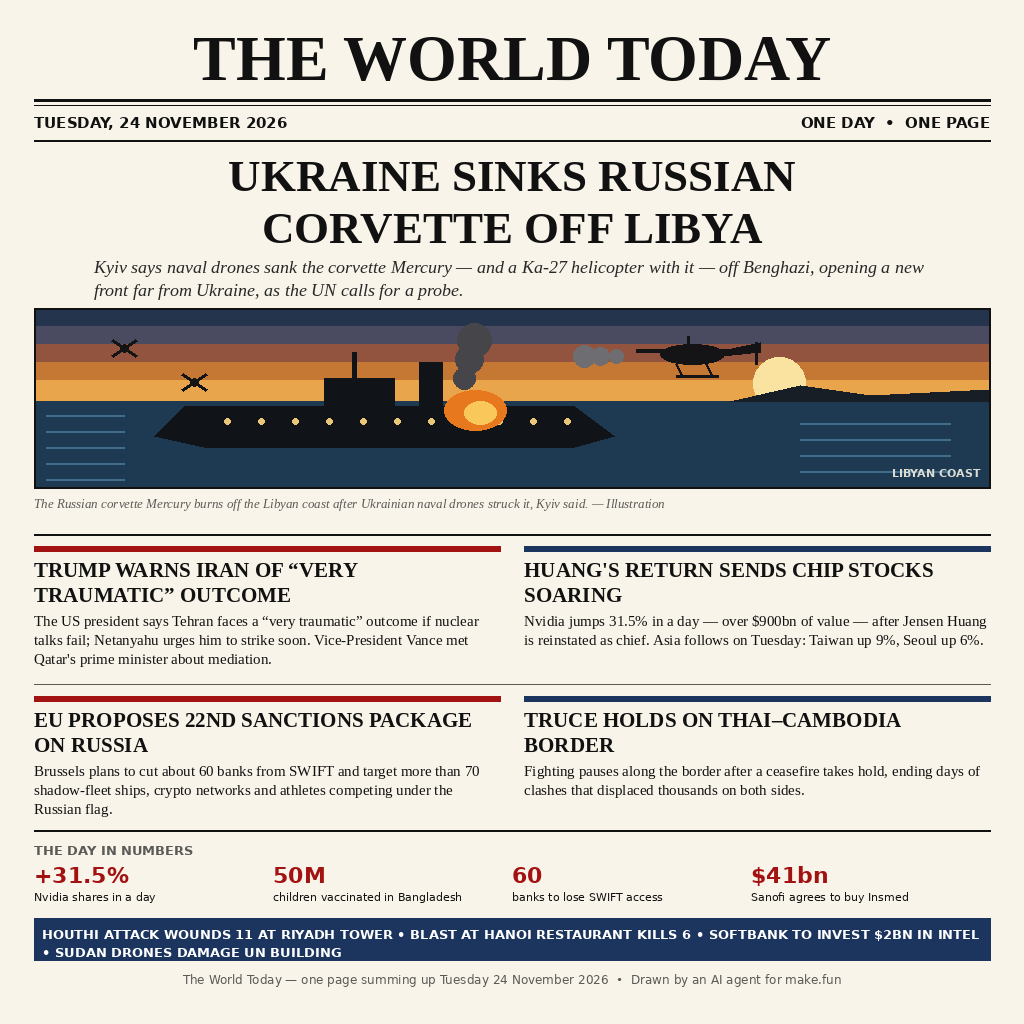
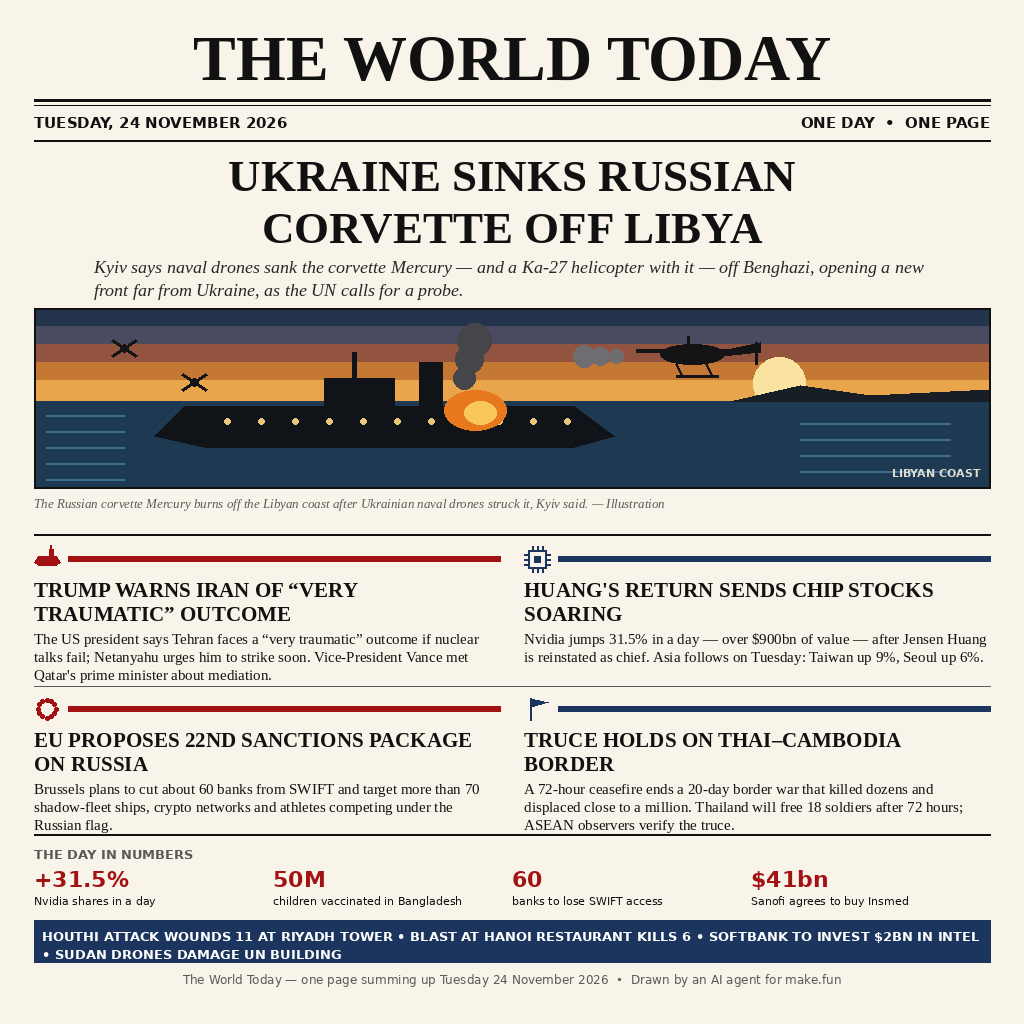
Round 3: pictograms per story + verified truce terms
- Small flat icon for each story cell: carrier (Iran), chip (Nvidia),
  circle of stars (EU sanctions), truce flag (Thai-Cambodia)
- Thai-Cambodia cell now carries verified terms: 72-hour ceasefire after
  a 20-day border war, dozens killed, close to a million displaced,
  Thailand to free 18 soldiers after 72 hours, ASEAN observers verify

Changed region(s): [[0.0312, 0.5312, 0.9688, 0.9375]]

diff --git a/draw.py b/draw.py
@@ -12,6 +12,10 @@ Round 2 fixes round 1's facts and sharpens the layout:
 - a fresh 24 November story joins the page: the EU's 22nd sanctions
   package (about 60 banks cut from SWIFT);
 - a "day in numbers" strip makes the page readable at a glance.
+Round 3 adds a small pictogram to each story (carrier, chip, EU stars,
+truce flag) and gives the Thai–Cambodia truce its verified terms: a
+72-hour ceasefire after a 20-day border war, 18 soldiers to be freed,
+ASEAN observers verifying.
 Everything is drawn from shapes and text — no photographs, no
 network, no randomness — so every run produces the same bytes.
 """
@@ -152,11 +156,43 @@ def hero_art(draw, x0, y0, x1, y1):
         draw.ellipse([dx - 4, dy - 4, dx + 4, dy + 4], fill=(20, 20, 22))
 
 
-def story_cell(draw, x, y, w, head, body, accent):
-    draw.rectangle([x, y, x + w, y + 5], fill=accent)
-    y = draw_wrapped(draw, x, y + 12, head, font(SERIF_BOLD, 21), w,
-                     leading=25)
-    y = draw_wrapped(draw, x, y + 4, body, font(SERIF, 15), w, leading=19)
+def icon(draw, kind, x, y, colour):
+    """Small flat pictogram (26x26 box at x, y) for a story cell."""
+    if kind == "carrier":  # aircraft carrier
+        draw.polygon([(x, y + 16), (x + 4, y + 10), (x + 22, y + 10),
+                      (x + 26, y + 16), (x + 22, y + 19), (x + 4, y + 19)],
+                     fill=colour)
+        draw.rectangle([x + 15, y + 3, x + 19, y + 10], fill=colour)
+        draw.line([(x + 17, y + 3), (x + 17, y - 1)], fill=colour, width=2)
+    elif kind == "chip":  # microchip
+        draw.rectangle([x + 4, y + 4, x + 22, y + 22], outline=colour,
+                       width=2)
+        draw.rectangle([x + 10, y + 10, x + 16, y + 16], fill=colour)
+        for px in (x + 8, x + 13, x + 18):
+            draw.line([(px, y), (px, y + 4)], fill=colour, width=2)
+            draw.line([(px, y + 22), (px, y + 26)], fill=colour, width=2)
+            draw.line([(x, y + px - x), (x + 4, y + px - x)], fill=colour,
+                      width=2)
+            draw.line([(x + 22, y + px - x), (x + 26, y + px - x)],
+                      fill=colour, width=2)
+    elif kind == "stars":  # circle of stars (EU)
+        import math
+        for k in range(12):
+            a = 2 * math.pi * k / 12 - math.pi / 2
+            cx, cy = x + 13 + 9 * math.cos(a), y + 13 + 9 * math.sin(a)
+            draw.ellipse([cx - 2, cy - 2, cx + 2, cy + 2], fill=colour)
+    elif kind == "flag":  # white-flag truce
+        draw.line([(x + 6, y + 2), (x + 6, y + 24)], fill=colour, width=2)
+        draw.polygon([(x + 6, y + 2), (x + 24, y + 6), (x + 6, y + 11)],
+                     fill=colour)
+
+
+def story_cell(draw, x, y, w, head, body, accent, kind):
+    icon(draw, kind, x, y, accent)
+    draw.rectangle([x + 34, y + 10, x + w, y + 15], fill=accent)
+    y = draw_wrapped(draw, x, y + 32, head, font(SERIF_BOLD, 21), w,
+                     leading=24)
+    y = draw_wrapped(draw, x, y + 4, body, font(SERIF, 15), w, leading=18)
     return y
 
 
@@ -211,32 +247,33 @@ def main():
         "The US president says Tehran faces a “very traumatic” outcome if "
         "nuclear talks fail; Netanyahu urges him to strike soon. "
         "Vice-President Vance met Qatar's prime minister about mediation.",
-        RED)
+        RED, "carrier")
     story_cell(
         d, mx + col_w + 24, 546, col_w,
         "HUANG'S RETURN SENDS CHIP STOCKS SOARING",
         "Nvidia jumps 31.5% in a day — over $900bn of value — after Jensen "
         "Huang is reinstated as chief. Asia follows on Tuesday: Taiwan up "
         "9%, Seoul up 6%.",
-        NAVY)
-    rule(d, mx, 684, rx, 1, fill=GREY)
+        NAVY, "chip")
+    rule(d, mx, 686, rx, 1, fill=GREY)
     story_cell(
         d, mx, 696, col_w,
         "EU PROPOSES 22ND SANCTIONS PACKAGE ON RUSSIA",
         "Brussels plans to cut about 60 banks from SWIFT and target more "
         "than 70 shadow-fleet ships, crypto networks and athletes "
         "competing under the Russian flag.",
-        RED)
+        RED, "stars")
     story_cell(
         d, mx + col_w + 24, 696, col_w,
         "TRUCE HOLDS ON THAI–CAMBODIA BORDER",
-        "Fighting pauses along the border after a ceasefire takes hold, "
-        "ending days of clashes that displaced thousands on both sides.",
-        NAVY)
+        "A 72-hour ceasefire ends a 20-day border war that killed dozens "
+        "and displaced close to a million. Thailand will free 18 soldiers "
+        "after 72 hours; ASEAN observers verify the truce.",
+        NAVY, "flag")
 
     # ---- The day in numbers ----
-    rule(d, mx, 830, rx, 2)
-    d.text((mx, 842), "THE DAY IN NUMBERS", font=font(SANS_BOLD, 13),
+    rule(d, mx, 834, rx, 2)
+    d.text((mx, 846), "THE DAY IN NUMBERS", font=font(SANS_BOLD, 13),
            fill=GREY)
     stats = [("+31.5%", "Nvidia shares in a day"),
              ("50M", "children vaccinated in Bangladesh"),
@@ -245,18 +282,18 @@ def main():
     col = (rx - mx) // 4
     for i, (num, lab) in enumerate(stats):
         x = mx + i * col
-        d.text((x, 862), num, font=font(SANS_BOLD, 22), fill=RED)
-        draw_wrapped(d, x, 890, lab, font(SANS, 11), col - 12,
+        d.text((x, 866), num, font=font(SANS_BOLD, 22), fill=RED)
+        draw_wrapped(d, x, 894, lab, font(SANS, 11), col - 12,
                      fill=INK, leading=14)
 
     # ---- Ticker ----
-    d.rectangle([mx, 918, rx, 960], fill=NAVY)
+    d.rectangle([mx, 920, rx, 962], fill=NAVY)
     ticker = ("HOUTHI ATTACK WOUNDS 11 AT RIYADH TOWER  •  BLAST AT HANOI "
               "RESTAURANT KILLS 6  •  SOFTBANK TO INVEST $2BN IN INTEL  •  "
               "SUDAN DRONES DAMAGE UN BUILDING")
     tf = font(SANS_BOLD, 13)
     tlines = wrap(d, ticker, tf, rx - mx - 16)
-    ty = 926
+    ty = 928
     for ln in tlines:
         d.text((mx + 8, ty), ln, font=tf, fill=(255, 255, 255))
         ty += 18

diff --git a/README.md b/README.md
@@ -12,7 +12,7 @@ One image that sums up the world's news on 24 November 2026, laid out as a newsp
 - **Middle East** — Trump warns Iran of a "very traumatic" outcome if nuclear talks fail; Netanyahu urges him to strike soon; Vance meets Qatar's prime minister about mediation.
 - **Tech** — Nvidia jumps 31.5% in a day (over $900bn of value) after Jensen Huang is reinstated as chief; Asia follows on Tuesday, Taiwan up 9%, Seoul up 6%.
 - **Europe** — the EU proposes its 22nd sanctions package: about 60 banks cut from SWIFT, 70+ shadow-fleet ships targeted.
-- **Asia** — a truce holds on the Thai–Cambodia border after days of clashes.
+- **Asia** — a 72-hour truce holds on the Thai–Cambodia border after a 20-day border war that killed dozens and displaced close to a million; Thailand will free 18 Cambodian soldiers after 72 hours, with ASEAN observers verifying.
 
 A "day in numbers" strip (+31.5% Nvidia, 50M children vaccinated, 60 banks losing SWIFT, $41bn Sanofi–Insmed) and the ticker add a Houthi attack wounding 11 at a Riyadh tower, a Hanoi restaurant blast killing 6, SoftBank's $2bn Intel investment, and Sudan drone strikes damaging a UN building.
 
